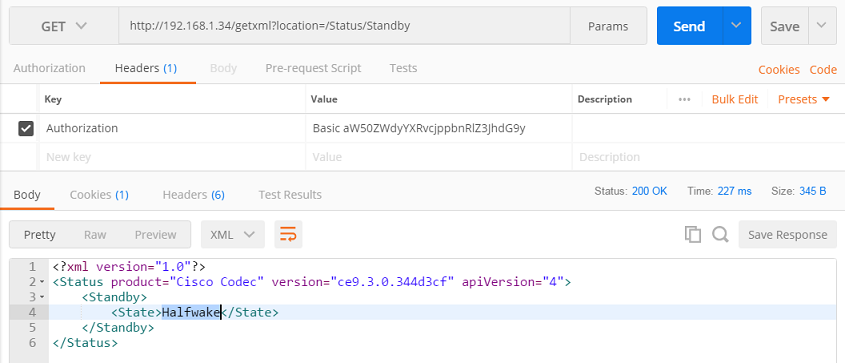
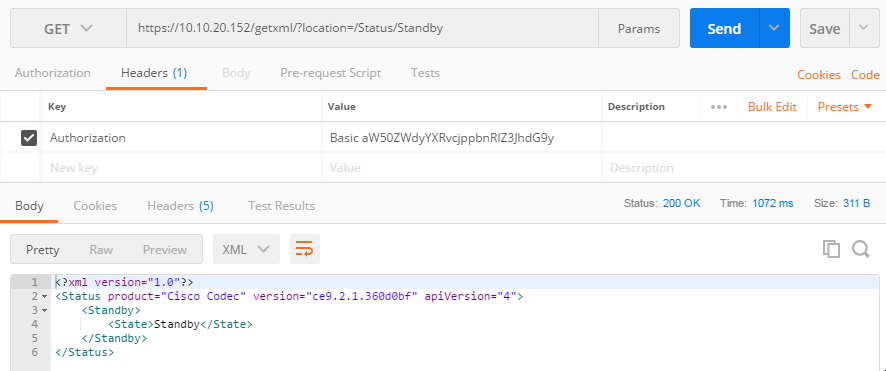
collab-xapi-intro - Step6: Fix Postman URL instructions and update screenshot

diff --git a/labs/collab-xapi-intro/6.md b/labs/collab-xapi-intro/6.md
@@ -53,7 +53,7 @@ Notice how the information returned is similar (though in a different format: XM
 
 [Postman](https://www.getpostman.org) is a nice GUI for testing and playing with HTTP and REST APIs.
 
-In Postman, create and send a new `GET` request pointed at your device’s `https://{device_ip}/getxml` endpoint, with an **Authorization** header value: `Basic aW50ZWdyYXRvcjppbnRlZ3JhdG9y`
+In Postman, create and send a new `GET` request pointed at your device’s `https://{device_ip}/getxml?location=/Status/Standby` endpoint, with an **Authorization** header value: `Basic aW50ZWdyYXRvcjppbnRlZ3JhdG9y`
 
 <div align="left">![xAPI via Postman](assets/images/step6-xapi-via-postman.png)</div><br/>
 
